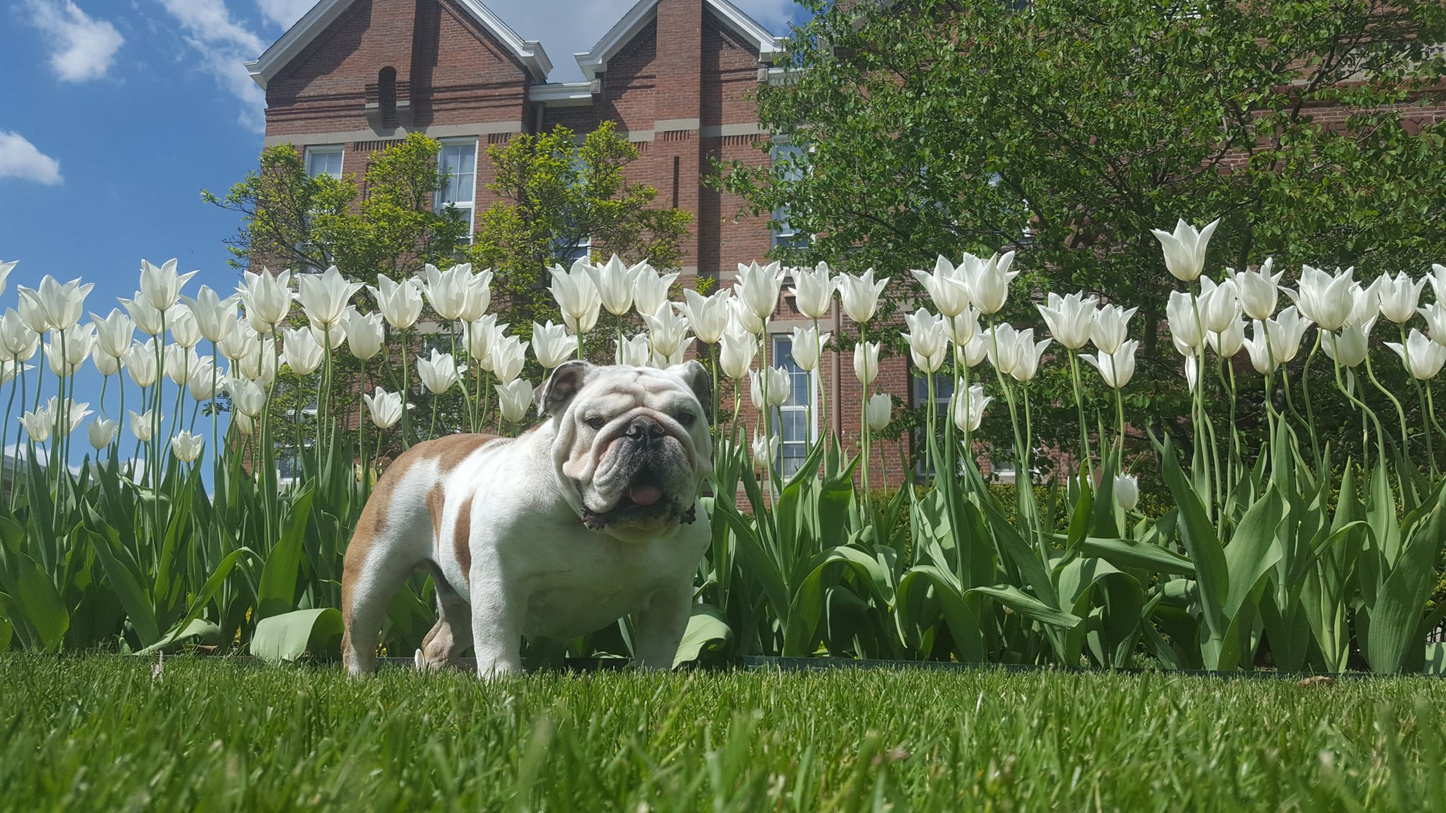
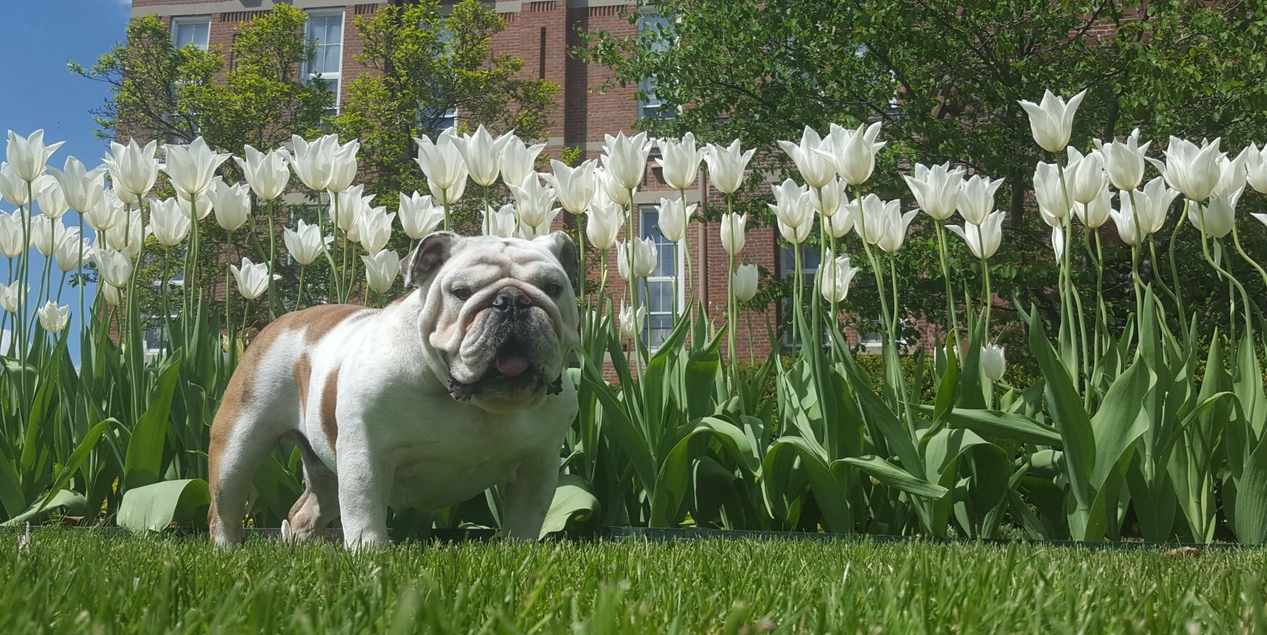
Updated home page, added relevant assets

diff --git a/src/Home.tsx b/src/Home.tsx
@@ -1,16 +1,106 @@
 export const Home: React.FC = () => {
     return (
-        <div>
-            <img className ="static h-fit w-fit" src="./src/assets/home_screen.jpg"></img>
-            <h1 className="absolute p-1 text-5xl font-semibold text-blue-400 border-2 border-black top-1/3 left-1/2 -translate-x-1/2 -translate-y-1/2 bg-white">
-                Registration Application
-                <h2 className="relative text-3xl text-black top">
-                    Register for your undergraduate classes <a className="underline decoration-indigo-500">easier</a>
-                </h2>
-            </h1>
-            <div>
-                
+        // OLD CODE
+        // <div className="flex flex-wrap px-15 gap-y-16 bg-gradient-to-t from-gray-400 to-gray-200 border-2 border-black">
+        //     {/* Front header/subheader */}
+        //         <div className="md:flex-row pl-12 gap-3 flex-wrap text-center gap-y-10 bg-gray-200 flex order-1 basis-1/2
+        //          border-blue-700 border-2">
+        //             <h1 className="pt-32 md:text-3xl text-1xl font-bold md:leading-tight leading-snug text-blue-400">
+        //                 Improve your DU Registration Experience
+        //             </h1>
+        //             <h2 className="text-black md:w-2/3 md:py-1 leading-relaxed justify-start">
+        //                 The best platform to find, pick, and register for classes
+        //             </h2>
+        //         </div>
+
+        //     {/* Front Image */}
+        //         <img className ="flex py-5 px-5 w-1/2 basis-1/2 order-2" src="./src/assets/home_screen.jpg"></img>
+
+        //     {/* Subsection on how to use the site */}
+        //         <div className="flex order-3 basis-full border-2 border-red-700">
+        //             <h1 className="md:text-4xl text-1xl px-10 font-bold md:leading-tight leading-snug text-blue-400">
+        //                 Why use this site?
+        //             </h1>
+        //             <h2 className="text-black md:w-2/3 md:py-1 leading-relaxed justify-start">
+        //                 Simply put, Drake's current registration system makes the process harder than it needs to be. Information is
+        //                 spread too thin and can be hard to find. Here, we put together class requirements, available classes, and 
+        //                 a guide of how to register all in the same place.
+        //             </h2>
+        //         </div>
+            
+            
+        // </div>
+        <section id="home" className="bg-gray-200">
+          {/* Hero Section */}
+            <div className="min-h-screen flex py-10 md:flex-row flex-col items-center">
+              <div className="flex-1 flex items-center justify-center h-full">
+                <img src="./src/assets/griff_home_5.jpeg" alt="" className="md:w-11/12 h-full object-cover drop-shadow-2xl rounded-xl" />
+              </div>
+
+              <div className="flex-1">
+                <div className="md:text-left text-center">
+                    <h1 className="md:text-5xl text-2xl md:leading-tight leading-snug font-bold">
+                      <span className="text-cyan-600 md:text-6xl text-5xl">
+                        Class Registration App
+                      </span>
+                    </h1>
+                    <h4 className="md:text-2xl text-lg md:leading-normal leading-5 mt-4 font-bold text-gray-600">
+                      Register for your classes easier, quicker, and better
+                    </h4>
+                </div>
+              </div>
             </div>
-        </div>
+
+          {/* Info Section */}
+            <div className="text-center mt-8">
+              <h3 className="text-4xl font-bold text-cyan-600">
+                Why this site?
+              </h3>
+              {/*<p className="text-gray-400 my-3 text-lg">Extra text</p> */}
+              <div className="flex md:flex-row flex-col-reverse items-center md:gap-6 gap-12 px-10 max-w-6xl mx-auto">
+                <div className="p-2">
+                  <div className="text-gray-600 my-3">
+                    <p className="text-justify leading-7 w-11/12 mx-auto">
+                      Simply put, Drake's current registration system makes the process harder than it needs to be. Information is
+                      spread too thin and can be hard to find. Here, we put together class requirements, available classes, and 
+                      a guide of how to register all in the same place.
+                    </p>
+                </div>
+              </div>
+                <div className="flex-1 md:mt-0 mt-6 flex justify-center items-center">
+                  <div className="lg:w-96 h-full relative sm:w-10/12 w-11/12 max-w-sm">
+                    <img src="./src/assets/griff_home_2.jpeg" alt="" className="w-full object-cover bg-cyan-600 rounded-xl drop-shadow-2xl"/>
+                  </div>
+                </div>
+              </div>
+            </div>
+
+          {/* Tutorial Section */}
+            <div className="text-center py-10 px-3 text-white">
+              <h3 className="text-4xl font-bold mt-24 text-cyan-600">
+                Website Tutorial
+              </h3>
+            </div>
+            <div className="bg-gray-700 relative px-8 rounded-2xl lg:max-w-4xl mx-auto min-h-[24rem] flex gap-6 lg:flex-row flex-col-reverse items-center">
+              <div>
+                <h2 className="text-2xl font-bold">
+                  How does this site work?
+                </h2>
+                <p className="lg:text-left text-justify max-w-lg text-sm mt-4 text-gray-200 leading-6">
+                  Use the <span className="text-cyan-600">Classes</span> page to look for and select offered 
+                  classes, the <span className="text-cyan-600">Majors</span> page to make sure you meet your requirements, 
+                  the <span className="text-cyan-600">Schedule</span> page to make sure you plan the perfect semester, 
+                  and the <span className="text-cyan-600">Registration</span> page to find the day to make things official!
+                </p>
+              </div>
+              <img src="./src/assets/griff_home_3.png" alt="" className="lg:h-[32rem] h-80 lg:absolute bottom-0 -right-16 object-cover"/>
+            </div>
+
+          {/* Footer */}
+            <div className="bg-gray-800 text-sm p-4 text-center text-white">
+              CS Capstone © 2022 Lucas Swidler, Jae Choi, Jacob Danner
+            </div>
+            
+        </section>
     )
 }

diff --git a/src/RegistrationInformation/RIPage.tsx b/src/RegistrationInformation/RIPage.tsx
@@ -1,30 +1,22 @@
 export const RIPage: React.FC = () => {
     return (
-        <div className="flex md:flex-row flex-col gap-3 pt-5 px-24 flex-wrap gap-y-10 bg-gray-200">
-            
+        <div className="flex md:flex-row flex-col gap-3 pt-5 px-24 flex-wrap gap-y-10 bg-gray-200 items-center">
             {/* This div is the header and subtitle for the page */}
-                <div className="flex h-24 flex-wrap order-1 basis-1/2">
-                    <h1 className="md:text-5xl text-2xl font-bold md:leading-tight leading-snug text-blue-400">
-                        Registration Information
+                <div className="flex h-24 flex-wrap order-1 basis-1/2 items-left">
+                    <h1 className="md:text-5xl text-2xl font-bold md:leading-tight leading-snug text-cyan-600">
+                        Registration Times
                     </h1>
                     <h2 className="text-black md:w-2/3 md:py-1 leading-relaxed justify-start">
-                        Important information on how to register
+                        Important information on when to register
                     </h2>
                 </div> 
 
             {/* This div is the registration times table */}
-                <div className="flex drop-shadow-lg order-2 basis-1/2">
+                <div className="flex drop-shadow-lg order-2 flex-justify h-full">
                     <img src="./src/assets/Registrationtimes.png" alt="regTable" className=""></img>
                 </div> 
 
-            {/* This div is used for the paragraph for information */}
-                <div className="flex bg-gray-100 p-2 drop-shadow-lg font-semibold order-3 basis-1/3">
-                    <h2 className="">Before thinking about registration, make sure you've checked your credit hours to find when you register.
-                                    Then, select the classes you need using the <a className="font-bold">Classes</a> page. Make sure the classes 
-                                    you select are needed for your major! Finally, record the CRN numbers for each of the classes and use the Drake 
-                                    Portal to officially register.
-                    </h2>
-                </div> 
+            
         </div>
     )
 }

diff --git a/src/Top_Navbar.tsx b/src/Top_Navbar.tsx
@@ -6,19 +6,19 @@ export const Top_Navbar: React.FC = () => {
     // link: Where you want the button to take you
     { title: "Home",                        link: "/"},
     { title: "Classes",                     link: "/browse-classes" },
-    { title: "Registration",                link: "/registration-information" },
     { title: "Majors",                      link: "/major-requirements" },
-    { title: "Schedule",                    link: "/my-schedule"}
+    { title: "Schedule",                    link: "/my-schedule"},
+    { title: "Registration",                link: "/registration-information" },
   ];
   return (
-    <div className='flex justify-between items-center h-24 w-full mx-auto px-4 bg-gray-600 text-white dropshadow-md'>
+    <div className='flex justify-between items-center h-24 w-full mx-auto px-4 bg-gray-700 text-white dropshadow-md'>
       <img src="./src/assets/new_logo.png"/>
-      <h1 className='w-full px-2 text-3xl font-bold text-blue-400'>REGISTRATION APPLICATION.</h1>
+      <h1 className='w-full px-2 text-3xl font-bold text-cyan-600'>REGISTRATION APPLICATION.</h1>
       <ul className='hidden md:flex'>
         {Menus.map((Menu, index) => (
           <li
            key={index}
-           className="p-4 rounded-md hover:bg-gray-500">
+           className="p-4 rounded-md hover:bg-gray-600">
            <span>
               <Link to={Menu.link}>{Menu.title}</Link>
            </span>

diff --git a/src/BrowseClasses/BCPage.tsx b/src/BrowseClasses/BCPage.tsx
@@ -29,7 +29,7 @@ export const BCPage: React.FC = () => {
         <div id="content-wrapper" className="flex md:flex-row gap-3 pt-5 px-24 flex-wrap gap-y-10 bg-gray-200 h-0.8 order-1">
             {/* This div is the header and subtitle for the page */}
                 <div className="flex h-24 flex-wrap order-2 basis-1/2">
-                    <h1 className="md:text-5xl text-2xl w-full font-bold md:leading-tight leading-snug text-blue-400">
+                    <h1 className="md:text-5xl text-2xl w-full font-bold md:leading-tight leading-snug text-cyan-600">
                         Browse Classes
                     </h1>
                     <h2 className="text-black md:w-2/3 md:py-1 leading-relaxed justify-start">

diff --git a/src/MySchedule/MSPage.tsx b/src/MySchedule/MSPage.tsx
@@ -33,7 +33,7 @@ export const MSPage: React.FC = () => {
             
             {/* This div is the header and subtitle for the page */}
                 <div className="flex h-24 flex-wrap order-2 basis-1/2">
-                    <h1 className="md:text-5xl text-2xl font-bold md:leading-tight leading-snug text-blue-400">
+                    <h1 className="md:text-5xl text-2xl font-bold md:leading-tight leading-snug text-cyan-600">
                         My Schedule
                     </h1>
                     <h2 className="text-black md:w-2/3 md:py-1 leading-relaxed justify-start">

diff --git a/src/MajorRequirements/MRPage.tsx b/src/MajorRequirements/MRPage.tsx
@@ -5,7 +5,7 @@ export const MRPage: React.FC = () => {
             
             <div className="flex h-24 flex-wrap order-1 basis-1/2">
                 <h1 className="md:text-5xl text-2xl font-bold md:leading-tight
-                leading-snug text-blue-400">
+                leading-snug text-cyan-600">
                     Major Requirements
                 </h1>
                 <h2 className="text-black md:w-2/3 md:py-1 leading-relaxed justify-start">

diff --git a/src/BrowseClasses/ControlBarFilters/AttributeFilter.tsx b/src/BrowseClasses/ControlBarFilters/AttributeFilter.tsx
@@ -9,6 +9,6 @@ interface TableControlsProps {
 export const AttributeFilter: React.FC<TableControlsProps> = ({params, setParams}) => {
 
 
-    return (
+    return (null
     )
 }
